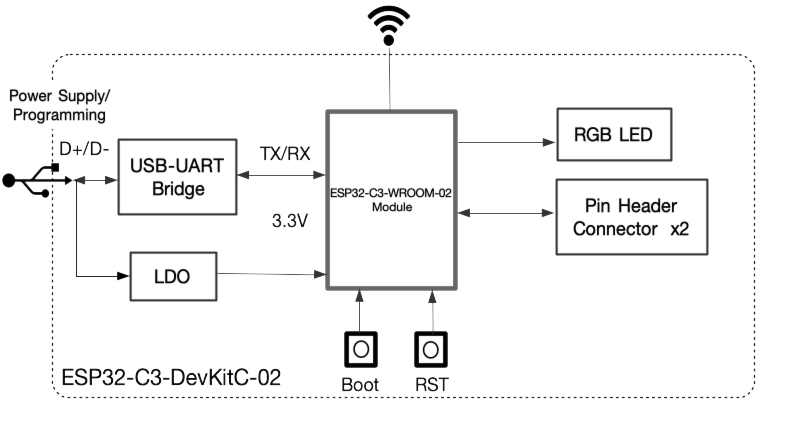
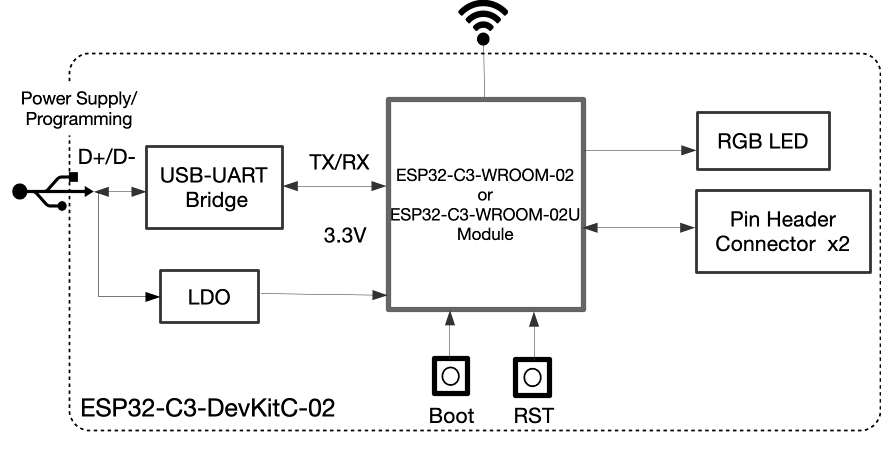
Docs: Update ESP32-C3 board guides to clarify integrated modules

Changed region(s): [[0.0, 0.1224, 1.0, 0.9482], [0.0938, 0.0, 0.9688, 0.1529], [0.9375, 0.8871, 1.0, 0.9176]]

diff --git a/docs/en/esp32-c3-devkitm-1/user_guide.rst b/docs/en/esp32-c3-devkitm-1/user_guide.rst
@@ -6,9 +6,9 @@ ESP32-C3-DevKitM-1
 
 This user guide will help you get started with ESP32-C3-DevKitM-1 and will also provide more in-depth information.
 
-ESP32-C3-DevKitM-1 is an entry-level development board based on `ESP32-C3-MINI-1 <https://www.espressif.com/sites/default/files/documentation/esp32-c3-mini-1_datasheet_en.pdf>`_, a module named for its small size. This board integrates complete Wi-Fi and Bluetooth® Low Energy functions.
+ESP32-C3-DevKitM-1 is an entry-level development board based on `ESP32-C3-MINI-1 or ESP32-C3-MINI-1U <https://www.espressif.com/sites/default/files/documentation/esp32-c3-mini-1_datasheet_en.pdf>`_ modules, which are named for their compact size. This board integrates complete Wi-Fi and Bluetooth® Low Energy functions.
 
-Most of the I/O pins on the ESP32-C3-MINI-1 module are broken out to the pin headers on both sides of this board for easy interfacing. Developers can either connect peripherals with jumper wires or mount ESP32-C3-DevKitM-1 on a breadboard.
+Most of the I/O pins on the module are broken out to the pin headers on both sides of this board for easy interfacing. Developers can either connect peripherals with jumper wires or mount ESP32-C3-DevKitM-1 on a breadboard.
 
 .. figure:: ../../_static/esp32-c3-devkitm-1/esp32-c3-devkitm-1-v1-isometric.png
     :align: center
@@ -38,10 +38,10 @@ Description of Components
 
 .. figure:: ../../_static/esp32-c3-devkitm-1/esp32-c3-devkitm-1-v1-annotated-photo.png
     :align: center
-    :alt: ESP32-C3-DevKitM-1 - front
+    :alt: ESP32-C3-DevKitM-1 (with the ESP32-C3-MINI-1 module) - front
     :figclass: align-center
 
-    ESP32-C3-DevKitM-1 - front
+    ESP32-C3-DevKitM-1 (with the ESP32-C3-MINI-1 module) - front
 
 The key components of the board are described in a counter-clockwise direction.
 
@@ -51,8 +51,8 @@ The key components of the board are described in a counter-clockwise direction.
 
    * - Key Component
      - Description
-   * - ESP32-C3-MINI-1
-     - ESP32-C3-MINI-1 is a general-purpose Wi-Fi and Bluetooth Low Energy combo module that comes with a PCB antenna. At the core of this module is `ESP32-C3FN4 <https://www.espressif.com/sites/default/files/documentation/esp32-c3_datasheet_en.pdf>`_, a chip that has an embedded flash of 4 MB. Since flash is packaged in the ESP32-C3FN4 chip, rather than integrated into the module, ESP32-C3-MINI-1 has a smaller package size.
+   * - ESP32-C3-MINI-1 or ESP32-C3-MINI-1U
+     - ESP32-C3-MINI-1 and ESP32-C3-MINI-1U are general-purpose Wi-Fi and Bluetooth Low Energy combo modules. ESP32-C3-MINI-1 comes with an on-board PCB antenna, whereas ESP32-C3-MINI-1U comes with an external antenna connector. They both have a flash of 4 MB, integrated inside the chip's package.
    * - 5 V to 3.3 V LDO
      - Power regulator that converts a 5 V supply into a 3.3 V output.
    * - 5 V Power On LED
@@ -62,7 +62,7 @@ The key components of the board are described in a counter-clockwise direction.
    * - Boot Button
      - Download button. Holding down **Boot** and then pressing **Reset** initiates Firmware Download mode for downloading firmware through the serial port.
    * - Micro-USB Port
-     - USB interface. Power supply for the board as well as the communication interface between a computer and the ESP32-C3FN4 chip.
+     - USB interface. Power supply for the board as well as the communication interface between a computer and the ESP32-C3 series of chips.
    * - Reset Button
      - Press this button to restart the system.
    * - USB-to-UART Bridge
@@ -199,7 +199,7 @@ No.  Name  Type [1]_   Function
 ===  ====  ==========  ====================================
 
 .. [1] P: Power supply; I: Input; O: Output; T: High impedance.
-.. [2] GPIO2, GPIO8, and GPIO9 are strapping pins of the ESP32-C3FN4 chip. These pins are used to control several chip functions depending on binary voltage values applied to the pins during chip power-up or system reset. For description and application of the strapping pins, please refer to Section Strapping Pins in `ESP32-C3 Datasheet`_.
+.. [2] GPIO2, GPIO8, and GPIO9 are strapping pins of the ESP32-C3 series of chips. These pins are used to control several chip functions depending on binary voltage values applied to the pins during chip power-up or system reset. For description and application of the strapping pins, please refer to Section Boot Configurations in `ESP32-C3 Datasheet`_.
 
 
 Pin Layout
@@ -208,9 +208,9 @@ Pin Layout
 .. figure:: ../../_static/esp32-c3-devkitm-1/esp32-c3-devkitm-1-v1-pinout.png
     :align: center
     :scale: 45%
-    :alt: ESP32-C3-DevKitM-1 (click to enlarge)
+    :alt: ESP32-C3-DevKitM-1 (with the ESP32-C3-MINI-1 module, click to enlarge)
 
-    ESP32-C3-DevKitM-1 Pin Layout (click to enlarge)
+    ESP32-C3-DevKitM-1 Pin Layout (with the ESP32-C3-MINI-1 module, click to enlarge)
 
 
 Hardware Revision Details
@@ -223,7 +223,7 @@ Related Documents
 =================
 
 * `ESP32-C3 Datasheet`_ (PDF)
-* `ESP32-C3-MINI-1 Datasheet`_ (PDF)
+* `ESP32-C3-MINI-1 & ESP32-C3-MINI-1U Datasheet`_ (PDF)
 * `ESP32-C3-DevKitM-1 Schematic <https://dl.espressif.com/dl/schematics/SCH_ESP32-C3-DEVKITM-1_V1_20200915A.pdf>`_ (PDF)
 * `ESP32-C3-DevKitM-1 PCB Layout <https://dl.espressif.com/dl/schematics/PCB_ESP32-C3-DEVKITM-1_V1_20200915AA.pdf>`_ (PDF)
 * `ESP32-C3-DevKitM-1 Dimensions <https://dl.espressif.com/dl/schematics/DIMENSION_ESP32-C3-DEVKITM-1_V1_20200915AA.pdf>`_ (PDF)
@@ -232,4 +232,4 @@ Related Documents
 For further design documentation for the board, please contact us at `sales@espressif.com <sales@espressif.com>`_.
 
 .. _ESP32-C3 Datasheet: https://www.espressif.com/sites/default/files/documentation/esp32-c3_datasheet_en.pdf
-.. _ESP32-C3-MINI-1 Datasheet: https://www.espressif.com/sites/default/files/documentation/esp32-c3-mini-1_datasheet_en.pdf
+.. _ESP32-C3-MINI-1 & ESP32-C3-MINI-1U Datasheet: https://www.espressif.com/sites/default/files/documentation/esp32-c3-mini-1_datasheet_en.pdf

diff --git a/docs/zh_CN/esp32-c3-devkitm-1/user_guide.rst b/docs/zh_CN/esp32-c3-devkitm-1/user_guide.rst
@@ -6,7 +6,7 @@ ESP32-C3-DevKitM-1
 
 本指南将帮助你快速上手 ESP32-C3-DevKitM-1，并提供该款开发板的详细信息。
 
-ESP32-C3-DevKitM-1 是一款入门级开发板，使用以尺寸小而得名的 `ESP32-C3-MINI-1 <https://www.espressif.com/sites/default/files/documentation/esp32-c3-mini-1_datasheet_cn.pdf>`_ 模组。该款开发板具备完整的 Wi-Fi 和低功耗蓝牙功能。
+ESP32-C3-DevKitM-1 是一款入门级开发板，使用以尺寸小而得名的 `ESP32-C3-MINI-1 或 ESP32-C3-MINI-1U <https://www.espressif.com/sites/default/files/documentation/esp32-c3-mini-1_datasheet_cn.pdf>`_ 模组。该款开发板具备完整的 Wi-Fi 和低功耗蓝牙功能。
 
 板上模组大部分管脚均已引出至两侧排针，开发人员可根据实际需求，轻松通过跳线连接多种外围设备，同时也可将开发板插在面包板上使用。
 
@@ -38,10 +38,10 @@ ESP32-C3-DevKitM-1 是一款入门级开发板，使用以尺寸小而得名的 
 
 .. figure:: ../../_static/esp32-c3-devkitm-1/esp32-c3-devkitm-1-v1-annotated-photo.png
     :align: center
-    :alt: ESP32-C3-DevKitM-1 - 正面
+    :alt: ESP32-C3-DevKitM-1（搭载 ESP32-C3-MINI-1 模组） - 正面
     :figclass: align-center
 
-    ESP32-C3-DevKitM-1 - 正面
+    ESP32-C3-DevKitM-1（搭载 ESP32-C3-MINI-1 模组） - 正面
 
 以下按照逆时针的顺序依次介绍开发板上的主要组件。
 
@@ -51,8 +51,8 @@ ESP32-C3-DevKitM-1 是一款入门级开发板，使用以尺寸小而得名的 
 
    * - 主要组件
      - 介绍
-   * - ESP32-C3-MINI-1
-     - ESP32-C3-MINI-1 是一款通用型 Wi-Fi 和低功耗蓝牙双模模组，采用 PCB 板载天线。该款模组集成配置 4 MB 嵌入式 flash 的 `ESP32-C3FN4 <https://www.espressif.com/sites/default/files/documentation/esp32-c3_datasheet_cn.pdf>`_ 芯片。由于 flash 直接封装在芯片中，ESP32-C3-MINI-1 模组具有更小的封装尺寸。
+   * - ESP32-C3-MINI-1 或 ESP32-C3-MINI-1U
+     - ESP32-C3-MINI-1 和 ESP32-C3-MINI-1U 是通用型 Wi-Fi 和低功耗蓝牙双模模组。ESP32-C3-MINI-1 采用 PCB 板载天线，ESP32-C3-MINI-1U 采用外部天线连接器。两款模组都配有 4 MB flash，集成于芯片封装内。
    * - 5 V to 3.3 V LDO（5 V 转 3.3 V LDO）
      - 电源转换器，输入 5 V，输出 3.3 V。
    * - 5 V Power On LED（5 V 电源指示灯）
@@ -62,7 +62,7 @@ ESP32-C3-DevKitM-1 是一款入门级开发板，使用以尺寸小而得名的 
    * - Boot Button（Boot 键）
      - 下载按键。按住 **Boot** 键的同时按一下 **Reset** 键进入“固件下载”模式，通过串口下载固件。
    * - Micro-USB Port（Micro-USB 接口）
-     - USB 接口。可用作开发板的供电电源或 PC 和 ESP32-C3FN4 芯片的通信接口。
+     - USB 接口。可用作开发板的供电电源或 PC 和 ESP32-C3 系列芯片的通信接口。
    * - Reset Button（Reset 键）
      - 复位按键。
    * - USB-to-UART Bridge（USB 至 UART 桥接器）
@@ -199,7 +199,7 @@ J3
 ====  ====  ==========  ================================
 
 .. [1] P：电源；I：输入；O：输出；T：可设置为高阻。
-.. [2] GPIO2、GPIO8、GPIO9 为 ESP32-C3FN4 芯片的 Strapping 管脚。在芯片上电和系统复位过程中，Strapping 管脚根据管脚的二进制电压值控制芯片功能。Strapping 管脚的具体描述和应用，请参考 `ESP32-C3 技术规格书`_ 的 Strapping 管脚章节。
+.. [2] GPIO2、GPIO8、GPIO9 为 ESP32-C3 系列芯片的 Strapping 管脚。在芯片上电和系统复位过程中，Strapping 管脚根据管脚的二进制电压值控制芯片功能。Strapping 管脚的具体描述和应用，请参考 `ESP32-C3 技术规格书`_ 的启动配置项章节。
 
 
 管脚布局
@@ -208,9 +208,9 @@ J3
 .. figure:: ../../_static/esp32-c3-devkitm-1/esp32-c3-devkitm-1-v1-pinout.png
     :align: center
     :scale: 45%
-    :alt: ESP32-C3-DevKitM-1 管脚布局（点击放大）
+    :alt: ESP32-C3-DevKitM-1 管脚布局（搭载 ESP32-C3-MINI-1 模组，点击放大）
 
-    ESP32-C3-DevKitM-1 管脚布局（点击放大）
+    ESP32-C3-DevKitM-1 管脚布局（搭载 ESP32-C3-MINI-1 模组，点击放大）
 
 
 硬件版本
@@ -223,7 +223,7 @@ J3
 ========
 
 * `ESP32-C3 技术规格书`_ (PDF)
-* `ESP32-C3-MINI-1 规格书`_ (PDF)
+* `ESP32-C3-MINI-1 和 ESP32-C3-MINI-1U 技术规格书`_ (PDF)
 * `ESP32-C3-DevKitM-1 原理图 <https://dl.espressif.com/dl/schematics/SCH_ESP32-C3-DEVKITM-1_V1_20200915A.pdf>`_ (PDF)
 * `ESP32-C3-DevKitM-1 PCB 布局图 <https://dl.espressif.com/dl/schematics/PCB_ESP32-C3-DEVKITM-1_V1_20200915AA.pdf>`_ (PDF)
 * `ESP32-C3-DevKitM-1 尺寸图 <https://dl.espressif.com/dl/schematics/DIMENSION_ESP32-C3-DEVKITM-1_V1_20200915AA.pdf>`_ (PDF)
@@ -232,4 +232,4 @@ J3
 有关本开发板的更多设计文档，请联系我们的商务部门 `sales@espressif.com <sales@espressif.com>`_。
 
 .. _ESP32-C3 技术规格书: https://www.espressif.com/sites/default/files/documentation/esp32-c3_datasheet_cn.pdf
-.. _ESP32-C3-MINI-1 规格书: https://www.espressif.com/sites/default/files/documentation/esp32-c3-mini-1_datasheet_cn.pdf
+.. _ESP32-C3-MINI-1 和 ESP32-C3-MINI-1U 技术规格书: https://www.espressif.com/sites/default/files/documentation/esp32-c3-mini-1_datasheet_cn.pdf

diff --git a/docs/en/esp32-c3-devkitc-02/user_guide.rst b/docs/en/esp32-c3-devkitc-02/user_guide.rst
@@ -6,7 +6,7 @@ ESP32-C3-DevKitC-02
 
 This user guide will help you get started with ESP32-C3-DevKitC-02 and will also provide more in-depth information.
 
-ESP32-C3-DevKitC-02 is an entry-level development board based on `ESP32-C3-WROOM-02 <https://www.espressif.com/sites/default/files/documentation/esp32-c3-wroom-02_datasheet_en.pdf>`_, a general-purpose module with 4 MB SPI flash. This board integrates complete Wi-Fi and Bluetooth® Low Energy functions.
+ESP32-C3-DevKitC-02 is an entry-level development board based on `ESP32-C3-WROOM-02 or ESP32-C3-WROOM-02U <https://www.espressif.com/sites/default/files/documentation/esp32-c3-wroom-02_datasheet_en.pdf>`_, general-purpose modules with 4 MB SPI flash. This board integrates complete Wi-Fi and Bluetooth® Low Energy functions.
 
 Most of the I/O pins are broken out to the pin headers on both sides for easy interfacing. Developers can either connect peripherals with jumper wires or mount ESP32-C3-DevKitC-02 on a breadboard.
 
@@ -36,10 +36,10 @@ Description of Components
 
 .. figure:: ../../_static/esp32-c3-devkitc-02/esp32-c3-devkitc-02-v1-annotated-photo.png
     :align: center
-    :alt: ESP32-C3-DevKitC-02 - front
+    :alt: ESP32-C3-DevKitC-02 (with the ESP32-C3-WROOM-02 module） - front
     :figclass: align-center
 
-    ESP32-C3-DevKitC-02 - front
+    ESP32-C3-DevKitC-02 (with the ESP32-C3-WROOM-02 module) - front
 
 The key components of the board are described in a counter-clockwise direction.
 
@@ -49,8 +49,8 @@ The key components of the board are described in a counter-clockwise direction.
 
    * - Key Component
      - Description
-   * - ESP32-C3-WROOM-02
-     - ESP32-C3-WROOM-02 from Espressif is a powerful and general-purpose module that offers Wi-Fi and Bluetooth Low Energy coexistence. It has a PCB antenna and a 4 MB SPI flash.
+   * - ESP32-C3-WROOM-02 or ESP32-C3-WROOM-02U
+     - ESP32-C3-WROOM-02 and ESP32-C3-WROOM-02U are powerful and general-purpose Espressif modules that offer Wi-Fi and Bluetooth Low Energy coexistence. ESP32-C3-WROOM-02 has a PCB antenna, while ESP32-C3-WROOM-02U has an external antenna connector. They both integrate a 4 MB SPI flash.
    * - 5 V to 3.3 V LDO
      - Power regulator that converts a 5 V supply into a 3.3 V output.
    * - 5 V Power On LED
@@ -188,7 +188,7 @@ No.  Name  Type [1]_   Function
 ===  ====  ==========  ====================================
 
 .. [1] P: Power supply; I: Input; O: Output; T: High impedance.
-.. [2] GPIO2, GPIO8, and GPIO9 are strapping pins of the ESP32-C3 chip. These pins are used to control several chip functions depending on binary voltage values applied to the pins during chip power-up or system reset. For description and application of the strapping pins, please refer to Section Strapping Pins in `ESP32-C3 Datasheet`_.
+.. [2] GPIO2, GPIO8, and GPIO9 are strapping pins of the ESP32-C3 chip. These pins are used to control several chip functions depending on binary voltage values applied to the pins during chip power-up or system reset. For description and application of the strapping pins, please refer to Section Boot Configurations in `ESP32-C3 Datasheet`_.
 
 Pin Layout
 ^^^^^^^^^^
@@ -196,10 +196,10 @@ Pin Layout
 .. figure:: ../../_static/esp32-c3-devkitc-02/esp32-c3-devkitc-02-v1-pinout.png
     :align: center
     :scale: 45%
-    :alt: ESP32-C3-DevKitC-02 (click to enlarge)
+    :alt: ESP32-C3-DevKitC-02 (with the ESP32-C3-WROOM-02 module, click to enlarge)
     :figclass: align-center
 
-    ESP32-C3-DevKitC-02 Pin Layout (click to enlarge)
+    ESP32-C3-DevKitC-02 Pin Layout (with the ESP32-C3-WROOM-02 module, click to enlarge)
 
 Hardware Revision Details
 =========================
@@ -210,7 +210,7 @@ Related Documents
 =================
 
 * `ESP32-C3 Datasheet`_ (PDF)
-* `ESP32-C3-WROOM-02 Datasheet`_ (PDF)
+* `ESP32-C3-WROOM-02 & ESP32-C3-WROOM-02U Datasheet`_ (PDF)
 * `ESP32-C3-DevKitC-02 Schematic <https://dl.espressif.com/dl/schematics/SCH_ESP32-C3-DEVKITC-02_V1_1_20210126A.pdf>`_ (PDF)
 * `ESP32-C3-DevKitC-02 PCB Layout <https://dl.espressif.com/dl/schematics/PCB_ESP32-C3-DevKitC-02_V1_1_20210121AA.pdf>`_ (PDF)
 * `ESP32-C3-DevKitC-02 Dimensions <https://dl.espressif.com/dl/schematics/DXF_ESP32-C3-DevKitC-02_V1_1_20210121AA.pdf>`_ (PDF)
@@ -219,4 +219,4 @@ Related Documents
 For further design documentation for the board, please contact us at `sales@espressif.com <sales@espressif.com>`_.
 
 .. _ESP32-C3 Datasheet: https://www.espressif.com/sites/default/files/documentation/esp32-c3_datasheet_en.pdf
-.. _ESP32-C3-WROOM-02 Datasheet: https://www.espressif.com/sites/default/files/documentation/esp32-c3-wroom-02_datasheet_en.pdf
+.. _ESP32-C3-WROOM-02 & ESP32-C3-WROOM-02U Datasheet: https://www.espressif.com/sites/default/files/documentation/esp32-c3-wroom-02_datasheet_en.pdf

diff --git a/docs/en/esp32-c3-devkitc-02/index.rst b/docs/en/esp32-c3-devkitc-02/index.rst
@@ -4,7 +4,7 @@ ESP32-C3-DevKitC-02
 
 :link_to_translation:`zh_CN:[中文]`
 
-ESP32-C3-DevKitC-02 is an entry-level development board based on `ESP32-C3-WROOM-02 <https://www.espressif.com/sites/default/files/documentation/esp32-c3-wroom-02_datasheet_en.pdf>`_, a general-purpose module with 4 MB SPI flash. This board integrates complete Wi-Fi and Bluetooth® Low Energy functions.
+ESP32-C3-DevKitC-02 is an entry-level development board based on `ESP32-C3-WROOM-02 or ESP32-C3-WROOM-02U <https://www.espressif.com/sites/default/files/documentation/esp32-c3-wroom-02_datasheet_en.pdf>`_, general-purpose modules with 4 MB SPI flash. This board integrates complete Wi-Fi and Bluetooth® Low Energy functions.
 
 .. toctree::
     :maxdepth: 2

diff --git a/docs/en/esp32-c3-devkitm-1/index.rst b/docs/en/esp32-c3-devkitm-1/index.rst
@@ -4,7 +4,7 @@ ESP32-C3-DevKitM-1
 
 :link_to_translation:`zh_CN:[中文]`
 
-ESP32-C3-DevKitM-1 is an entry-level development board based on `ESP32-C3-MINI-1 <https://www.espressif.com/sites/default/files/documentation/esp32-c3-mini-1_datasheet_en.pdf>`_, a module named for its small size. This board integrates complete Wi-Fi and Bluetooth® Low Energy functions.
+ESP32-C3-DevKitM-1 is an entry-level development board based on `ESP32-C3-MINI-1 or ESP32-C3-MINI-1U <https://www.espressif.com/sites/default/files/documentation/esp32-c3-mini-1_datasheet_en.pdf>`_, modules named for its small size. This board integrates complete Wi-Fi and Bluetooth® Low Energy functions.
 
 .. toctree::
     :maxdepth: 2

diff --git a/docs/zh_CN/esp32-c3-devkitc-02/index.rst b/docs/zh_CN/esp32-c3-devkitc-02/index.rst
@@ -4,7 +4,7 @@ ESP32-C3-DevKitC-02
 
 :link_to_translation:`en:[English]`
 
-ESP32-C3-DevKitC-02 是一款入门级开发板，使用配置 4 MB SPI flash 的通用型模组 `ESP32-C3-WROOM-02 <https://www.espressif.com/sites/default/files/documentation/esp32-c3-wroom-02_datasheet_cn.pdf>`_。该款开发板具备完整的 Wi-Fi 和低功耗蓝牙功能。
+ESP32-C3-DevKitC-02 是一款入门级开发板，使用配置 4 MB SPI flash 的通用型模组 `ESP32-C3-WROOM-02 或 ESP32-C3-WROOM-02U <https://www.espressif.com/sites/default/files/documentation/esp32-c3-wroom-02_datasheet_cn.pdf>`_。该款开发板具备完整的 Wi-Fi 和低功耗蓝牙功能。
 
 .. toctree::
     :maxdepth: 2

diff --git a/docs/zh_CN/esp32-c3-devkitm-1/index.rst b/docs/zh_CN/esp32-c3-devkitm-1/index.rst
@@ -4,7 +4,7 @@ ESP32-C3-DevKitM-1
 
 :link_to_translation:`en:[English]`
 
-ESP32-C3-DevKitM-1 是一款入门级开发板，使用以尺寸小而得名的 `ESP32-C3-MINI-1 <https://www.espressif.com/sites/default/files/documentation/esp32-c3-mini-1_datasheet_cn.pdf>`_ 模组。该款开发板具备完整的 Wi-Fi 和低功耗蓝牙功能。
+ESP32-C3-DevKitM-1 是一款入门级开发板，使用以尺寸小而得名的 `ESP32-C3-MINI-1 或 ESP32-C3-MINI-1U <https://www.espressif.com/sites/default/files/documentation/esp32-c3-mini-1_datasheet_cn.pdf>`_ 模组。该款开发板具备完整的 Wi-Fi 和低功耗蓝牙功能。
 
 .. toctree::
     :maxdepth: 2
